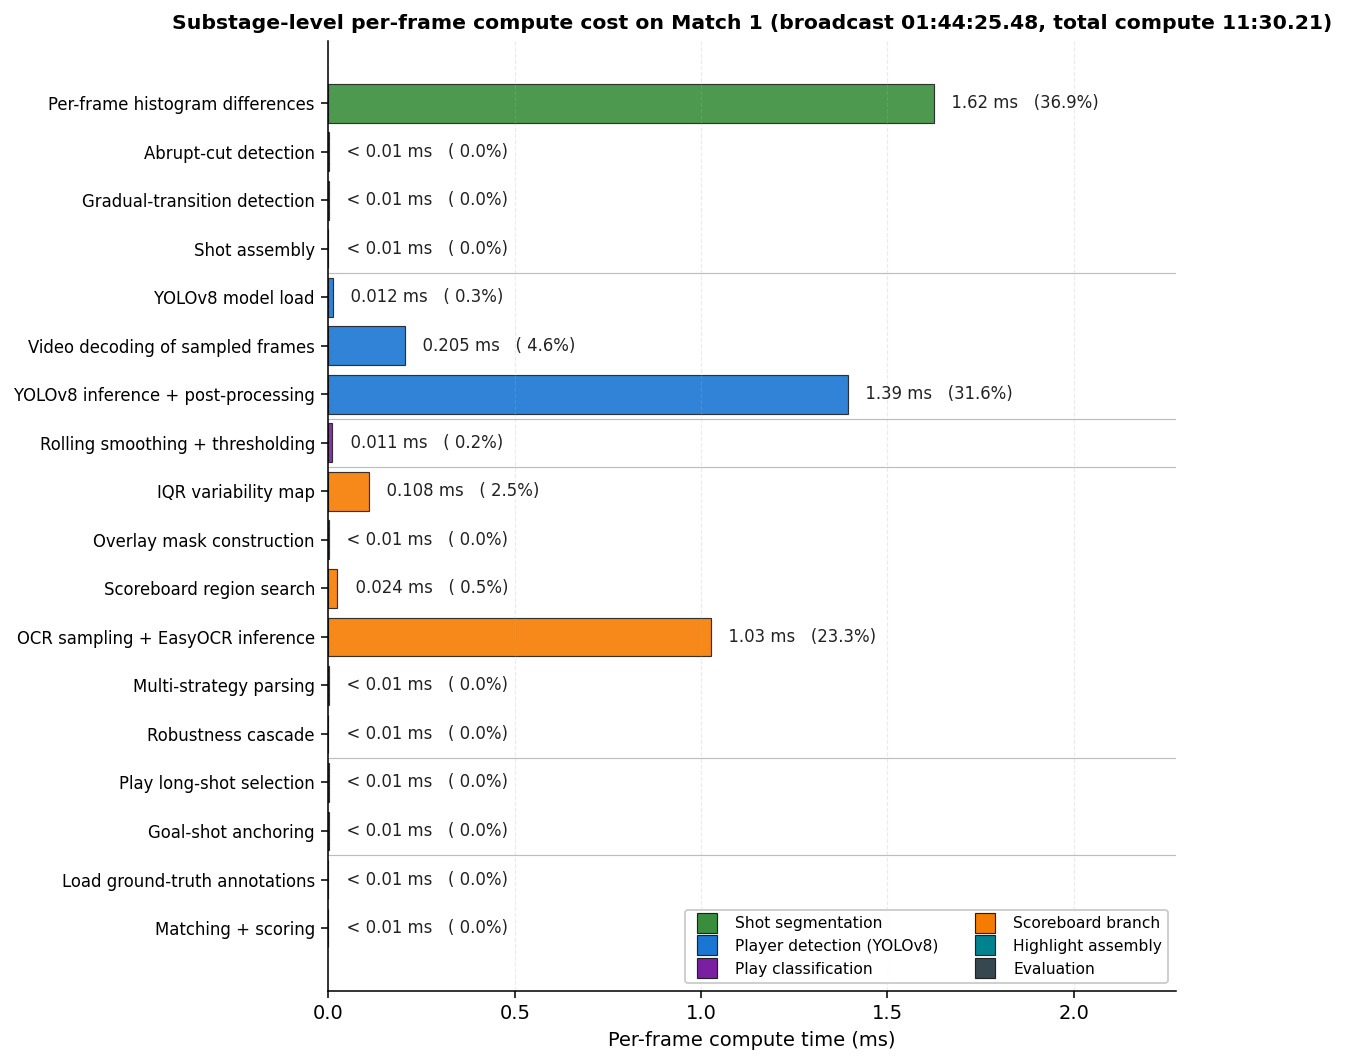
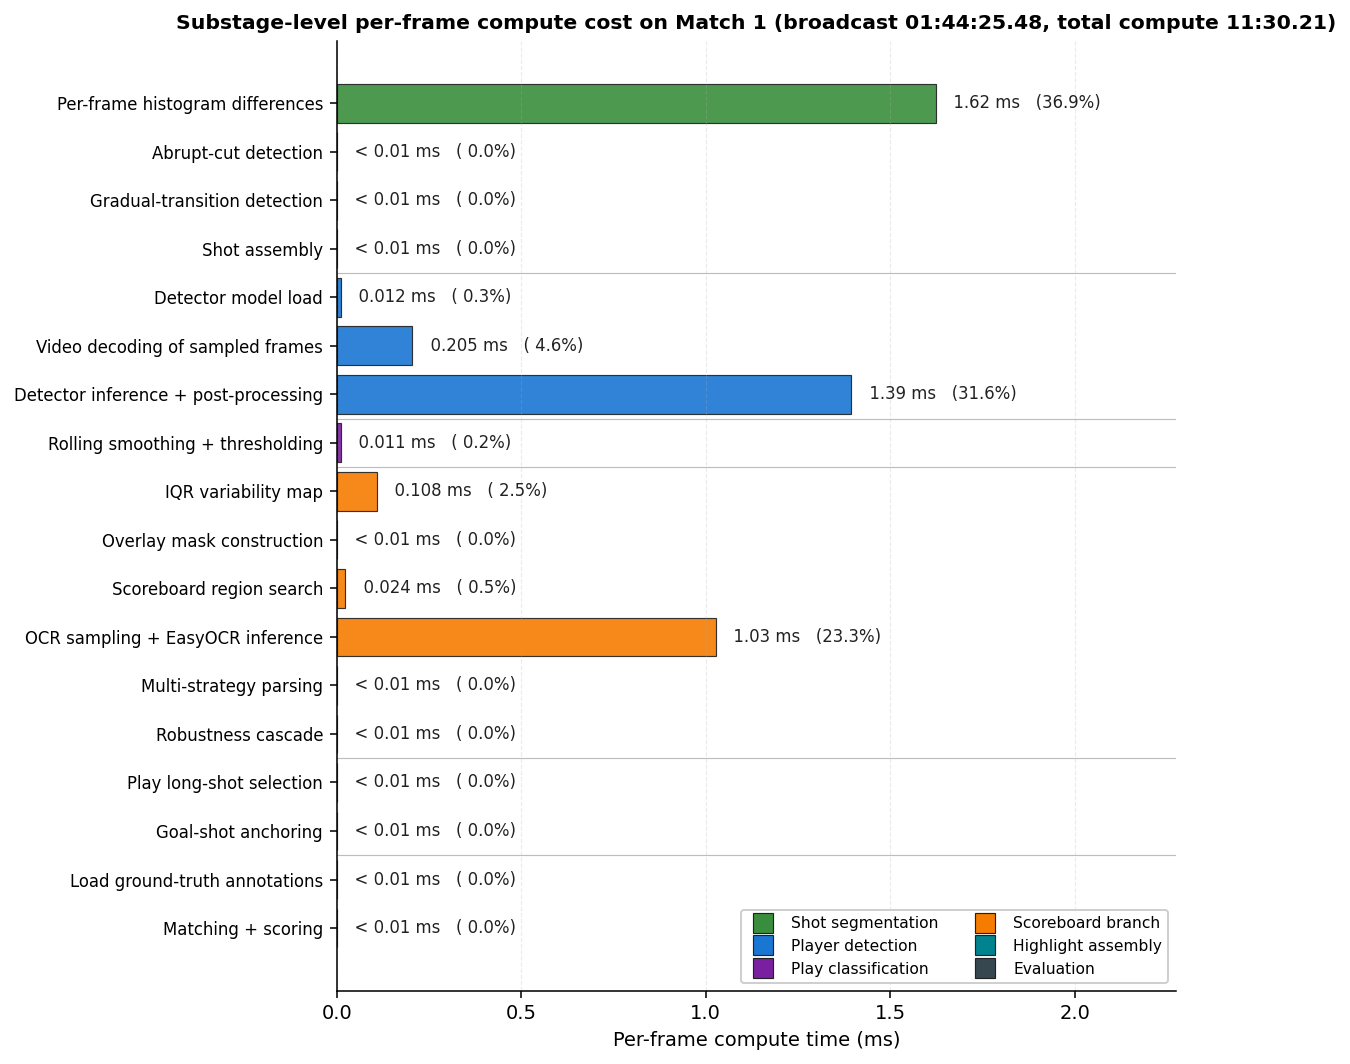
Runtime labels: generic detector name; save detector validation metrics from the checkpoint

diff --git a/scripts/generate_runtime_figure.py b/scripts/generate_runtime_figure.py
@@ -43,7 +43,7 @@ STAGE_ORDER = [
 ]
 STAGE_LABEL = {
     "shot_segmentation":  "Shot segmentation",
-    "object_detection":   "Player detection (YOLOv8)",
+    "object_detection":   "Player detection",
     "play_classifier":    "Play classification",
     "ocr_scoreboard":     "Scoreboard branch",
     "highlight_assembly": "Highlight assembly",
@@ -65,10 +65,10 @@ SUBSTAGE_LABEL = {
     "gradual_detection":          "Gradual-transition detection",
     "shot_assembly":              "Shot assembly",
     # object_detection
-    "model_load":                 "YOLOv8 model load",
+    "model_load":                 "Detector model load",
     "inference_loop":             "Frame extraction + inference loop",
     "frame_decode":               "Video decoding of sampled frames",
-    "yolo_inference":             "YOLOv8 inference + post-processing",
+    "yolo_inference":             "Detector inference + post-processing",
     # play_classifier
     "smoothing_threshold":        "Rolling smoothing + thresholding",
     # ocr_scoreboard
@@ -219,9 +219,9 @@ HIGH_VOLUME_KEYS = [
     ("shot_segmentation",  "frame_difference",
      "Shot dissimilarity signal (Sec. 4)",        "#388E3C"),
     ("object_detection",   "inference_loop",
-     "YOLOv8 player detection (Sec. 5)",          "#1976D2"),
+     "Player detection (Sec. 5)",          "#1976D2"),
     ("object_detection",   "yolo_inference",
-     "YOLOv8 player detection (Sec. 5)",          "#1976D2"),
+     "Player detection (Sec. 5)",          "#1976D2"),
     ("object_detection",   "frame_decode",
      "Video decoding for detection (Sec. 5)",     "#64B5F6"),
     ("ocr_scoreboard",     "ocr_sampling_recognition",

diff --git a/results_hr/runtime_analysis_rev/Match1_sequential_fp32/runtime_table.tex b/results_hr/runtime_analysis_rev/Match1_sequential_fp32/runtime_table.tex
@@ -14,9 +14,9 @@ Shot segmentation & Per-frame histogram differences & $254.4$ & $36.9$ \\
 \cmidrule(lr){2-4}
  & \textit{Subtotal} & $\mathbf{254.5}$ & $\mathbf{36.9}$ \\
 \midrule
-Player detection (YOLOv8) & YOLOv8 model load & $1.9$ & $0.3$ \\
+Player detection & Detector model load & $1.9$ & $0.3$ \\
  & Video decoding of sampled frames & $32.1$ & $4.6$ \\
- & YOLOv8 inference + post-processing & $218.4$ & $31.6$ \\
+ & Detector inference + post-processing & $218.4$ & $31.6$ \\
 \cmidrule(lr){2-4}
  & \textit{Subtotal} & $\mathbf{252.4}$ & $\mathbf{36.6}$ \\
 \midrule

diff --git a/results_hr/runtime_analysis_rev/Match1_sequential_fp32/runtime_summary.md b/results_hr/runtime_analysis_rev/Match1_sequential_fp32/runtime_summary.md
@@ -14,9 +14,9 @@
 | Shot segmentation | Abrupt-cut detection | 0.01 | 0.0 | 578618.2× |
 | Shot segmentation | Gradual-transition detection | 0.05 | 0.0 | 122697.1× |
 | Shot segmentation | Shot assembly | 0.00 | 0.0 | 19140786.5× |
-| Player detection (YOLOv8) | YOLOv8 model load | 1.86 | 0.3 | 3367.7× |
-| Player detection (YOLOv8) | Video decoding of sampled frames | 32.09 | 4.6 | 195.3× |
-| Player detection (YOLOv8) | YOLOv8 inference + post-processing | 218.42 | 31.6 | 28.7× |
+| Player detection | Detector model load | 1.86 | 0.3 | 3367.7× |
+| Player detection | Video decoding of sampled frames | 32.09 | 4.6 | 195.3× |
+| Player detection | Detector inference + post-processing | 218.42 | 31.6 | 28.7× |
 | Play classification | Rolling smoothing + thresholding | 1.68 | 0.2 | 3721.0× |
 | Scoreboard branch | IQR variability map | 16.96 | 2.5 | 369.3× |
 | Scoreboard branch | Overlay mask construction | 0.03 | 0.0 | 225112.6× |
